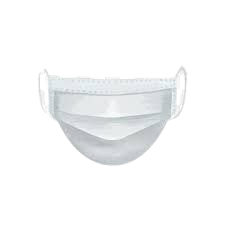
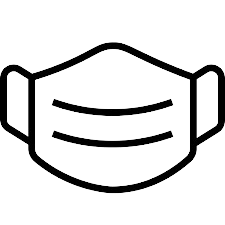
feat(core): add disease diagnosis module

Changed region(s): [[0.0, 0.1867, 1.0, 0.8711]]

diff --git a/ekranlar/hastalik_teshisi.py b/ekranlar/hastalik_teshisi.py
@@ -1,0 +1,203 @@
+from PyQt5.QtWidgets import (QWidget, QLabel, QVBoxLayout, QHBoxLayout,
+                             QPushButton, QTableWidget, QTableWidgetItem, QHeaderView,
+                             QMessageBox, QFrame, QSplitter)
+from PyQt5.QtGui import QFont, QColor, QPixmap
+from PyQt5.QtCore import Qt
+from veritabani import baglanti_kur  # 🔁 PostgreSQL bağlantısı için
+import datetime
+
+
+class HastalikTeshisiEkrani(QWidget):
+    def __init__(self, hasta_id=None, parent=None):
+        super().__init__(parent)
+        self.hasta_id = hasta_id
+        self.parent = parent
+        self.setupUI()
+
+    def setupUI(self):
+        self.setWindowTitle("Hastalık Teşhisi")
+        self.setMinimumSize(800, 600)
+
+        main_layout = QVBoxLayout()
+
+        # Başlık
+        header_layout = QHBoxLayout()
+        title_label = QLabel("Hastalık Teşhisi ve Analizi")
+        title_label.setFont(QFont("Arial", 16, QFont.Bold))
+        title_label.setStyleSheet("color: #2B579A;")
+        header_layout.addWidget(title_label)
+        header_layout.addStretch()
+
+        logo_label = QLabel()
+        logo_pixmap = QPixmap("saglik_logo.png")
+        if not logo_pixmap.isNull():
+            logo_label.setPixmap(logo_pixmap.scaled(40, 40, Qt.KeepAspectRatio))
+            header_layout.addWidget(logo_label)
+
+        main_layout.addLayout(header_layout)
+
+        line = QFrame()
+        line.setFrameShape(QFrame.HLine)
+        line.setFrameShadow(QFrame.Sunken)
+        main_layout.addWidget(line)
+
+        self.hasta_bilgi_label = QLabel("Hasta: Yükleniyor...")
+        self.hasta_bilgi_label.setFont(QFont("Arial", 11))
+        main_layout.addWidget(self.hasta_bilgi_label)
+
+        splitter = QSplitter(Qt.Horizontal)
+
+        # Sol: Belirtiler tablosu
+        left_widget = QWidget()
+        left_layout = QVBoxLayout(left_widget)
+
+        belirtiler_label = QLabel("Belirtiler")
+        belirtiler_label.setFont(QFont("Arial", 12, QFont.Bold))
+        left_layout.addWidget(belirtiler_label)
+
+        self.belirtiler_table = QTableWidget()
+        self.belirtiler_table.setColumnCount(2)
+        self.belirtiler_table.setHorizontalHeaderLabels(["Belirti", "Durum"])
+        self.belirtiler_table.horizontalHeader().setSectionResizeMode(QHeaderView.Stretch)
+        left_layout.addWidget(self.belirtiler_table)
+
+        splitter.addWidget(left_widget)
+
+        # Sağ: Teşhis bilgileri
+        right_widget = QWidget()
+        right_layout = QVBoxLayout(right_widget)
+
+        teshis_frame = QFrame()
+        teshis_frame.setFrameShape(QFrame.StyledPanel)
+        teshis_frame.setStyleSheet("background-color: #F0F8FF; border-radius: 5px;")
+        teshis_layout = QVBoxLayout(teshis_frame)
+
+        teshis_baslik = QLabel("Teşhis Analizi")
+        teshis_baslik.setFont(QFont("Arial", 12, QFont.Bold))
+        teshis_layout.addWidget(teshis_baslik)
+
+        self.teshis_label = QLabel("Teşhis analizi yapılıyor...")
+        self.teshis_label.setFont(QFont("Arial", 11))
+        teshis_layout.addWidget(self.teshis_label)
+
+        self.oneri_label = QLabel("")
+        self.oneri_label.setFont(QFont("Arial", 11))
+        self.oneri_label.setWordWrap(True)
+        teshis_layout.addWidget(self.oneri_label)
+
+        right_layout.addWidget(teshis_frame)
+
+        etik_label = QLabel("⚠️ Bu teşhis sistem önerisidir. Lütfen hasta ile paylaşmadan önce değerlendirme yapınız.")
+        etik_label.setFont(QFont("Arial", 9))
+        etik_label.setStyleSheet("color: #FF7F50;")
+        right_layout.addWidget(etik_label)
+
+        splitter.addWidget(right_widget)
+        splitter.setSizes([400, 400])
+
+        main_layout.addWidget(splitter)
+
+        # Butonlar
+        button_layout = QHBoxLayout()
+        self.yenile_btn = QPushButton("Verileri Yenile")
+        self.yenile_btn.clicked.connect(self.verileri_yukle)
+        button_layout.addWidget(self.yenile_btn)
+
+        self.kapat_btn = QPushButton("Kapat")
+        self.kapat_btn.clicked.connect(self.close)
+        button_layout.addWidget(self.kapat_btn)
+
+        main_layout.addLayout(button_layout)
+        self.setLayout(main_layout)
+
+        if self.hasta_id:
+            self.verileri_yukle()
+
+    def verileri_yukle(self):
+        bilgiler = self.hasta_bilgilerini_getir()
+        if bilgiler:
+            self.hasta_bilgi_label.setText(f"Hasta: {bilgiler['ad']} {bilgiler['soyad']} | TC: {bilgiler['tc_no']}")
+
+        belirtiler = self.belirtileri_getir()
+        self.belirtiler_table.setRowCount(len(belirtiler))
+        for i, belirti in enumerate(belirtiler):
+            self.belirtiler_table.setItem(i, 0, QTableWidgetItem(belirti['ad']))
+            durum_item = QTableWidgetItem("Var" if belirti['durum'] else "Yok")
+            durum_item.setBackground(QColor(255, 200, 200) if belirti['durum'] else QColor(200, 255, 200))
+            self.belirtiler_table.setItem(i, 1, durum_item)
+
+        self.teshisi_yap(belirtiler)
+
+    def hasta_bilgilerini_getir(self):
+        try:
+            conn = baglanti_kur()
+            if conn is None:
+                return None
+            cur = conn.cursor()
+            cur.execute("""
+                        SELECT ad, soyad, tc
+                        FROM hastalar
+                        WHERE id = %s
+                        """, (self.hasta_id,))
+            row = cur.fetchone()
+            conn.close()
+            if row:
+                return {"ad": row[0], "soyad": row[1], "tc_no": row[2]}
+        except Exception as e:
+            QMessageBox.warning(self, "Hata", f"Hasta bilgisi alınamadı:\n{str(e)}")
+        return None
+
+    def belirtileri_getir(self):
+        try:
+            conn = baglanti_kur()
+            if conn is None:
+                return []
+            cur = conn.cursor()
+
+            # Sistemde tanımlı belirtiler
+            tum_belirtiler = [
+                "Poliüri", "Polifaji", "Polidipsi", "Nöropati", "Kilo kaybı",
+                "Yorgunluk", "Yaraların yavaş iyileşmesi", "Bulanık görme"
+            ]
+
+            # Bu hastanın aktif olarak kaydettiği belirtiler
+            cur.execute("""
+                        SELECT DISTINCT belirti
+                        FROM belirtiler
+                        WHERE hasta_id = %s
+                        """, (self.hasta_id,))
+            aktif_belirtiler_raw = cur.fetchall()
+            conn.close()
+
+            aktif_belirtiler = {row[0] for row in aktif_belirtiler_raw}
+
+            # Tüm belirtileri göster, aktif olanları işaretle
+            sonuc = []
+            for belirti in tum_belirtiler:
+                sonuc.append({
+                    "ad": belirti,
+                    "durum": belirti in aktif_belirtiler
+                })
+            return sonuc
+
+        except Exception as e:
+            QMessageBox.critical(self, "Hata", f"Belirti verileri alınamadı:\n{str(e)}")
+            return []
+
+    def teshisi_yap(self, belirtiler):
+        aktif = set([b['ad'] for b in belirtiler if b['durum']])
+
+        # Her hastalık için gerekli belirtiler (tam eşleşme arıyoruz)
+        kurallar = {
+            "Hipoglisemi": {"Nöropati", "Polifaji", "Yorgunluk"},
+            "Normal Alt Düzey": {"Yorgunluk", "Kilo kaybı"},
+            "Normal Üst Düzey": {"Bulanık görme", "Nöropati"},
+            "Hiperglisemi": {"Yaraların yavaş iyileşmesi", "Polifaji", "Polidipsi"},
+        }
+
+        for ad, gerek in kurallar.items():
+            if gerek.issubset(aktif):
+                self.teshis_label.setText(f"Tespit edilen durum: {ad}")
+                return
+
+        self.teshis_label.setText("Tüm belirtiler sağlanmadığı için teşhis yapılamadı.")

diff --git a/ekranlar/doktor_ana_ekran.py b/ekranlar/doktor_ana_ekran.py
@@ -91,6 +91,10 @@ class DoktorAnaEkran(QMainWindow):
         self.btn_grafik.clicked.connect(self.kan_sekeri_grafik_ac)
         self.layout.addWidget(self.btn_grafik)
 
+        self.btn_hastalik_teshisi = QPushButton("🩺 Hastalık Teşhisi")
+        self.btn_hastalik_teshisi.clicked.connect(self.hastalik_teshisi_ekranini_ac)
+        self.layout.addWidget(self.btn_hastalik_teshisi)
+
         for btn in [self.btn_detay, self.btn_hasta_ekle, self.btn_kan_sekeri_ekle,
                     self.btn_egzersiz_ekle, self.btn_diyet_ekle, self.btn_grafik]:
             btn.setSizePolicy(QSizePolicy.Expanding, QSizePolicy.Fixed)
@@ -191,6 +195,15 @@ class DoktorAnaEkran(QMainWindow):
         self.grafik_pencere = KanSekeriGrafik(hasta_id)
         self.grafik_pencere.show()
 
+    def hastalik_teshisi_ekranini_ac(self):
+        if not self.hasta_listesi.currentItem():
+            QMessageBox.warning(self, "Hata", "Lütfen bir hasta seçiniz!")
+            return
+
+        hasta_id = int(self.hasta_listesi.currentItem().text().split(" - ")[0])
+        from ekranlar.hastalik_teshisi import HastalikTeshisiEkrani
+        self.teshis_pencere = HastalikTeshisiEkrani(hasta_id)
+        self.teshis_pencere.show()
 
 if __name__ == "__main__":
     app = QApplication(sys.argv)